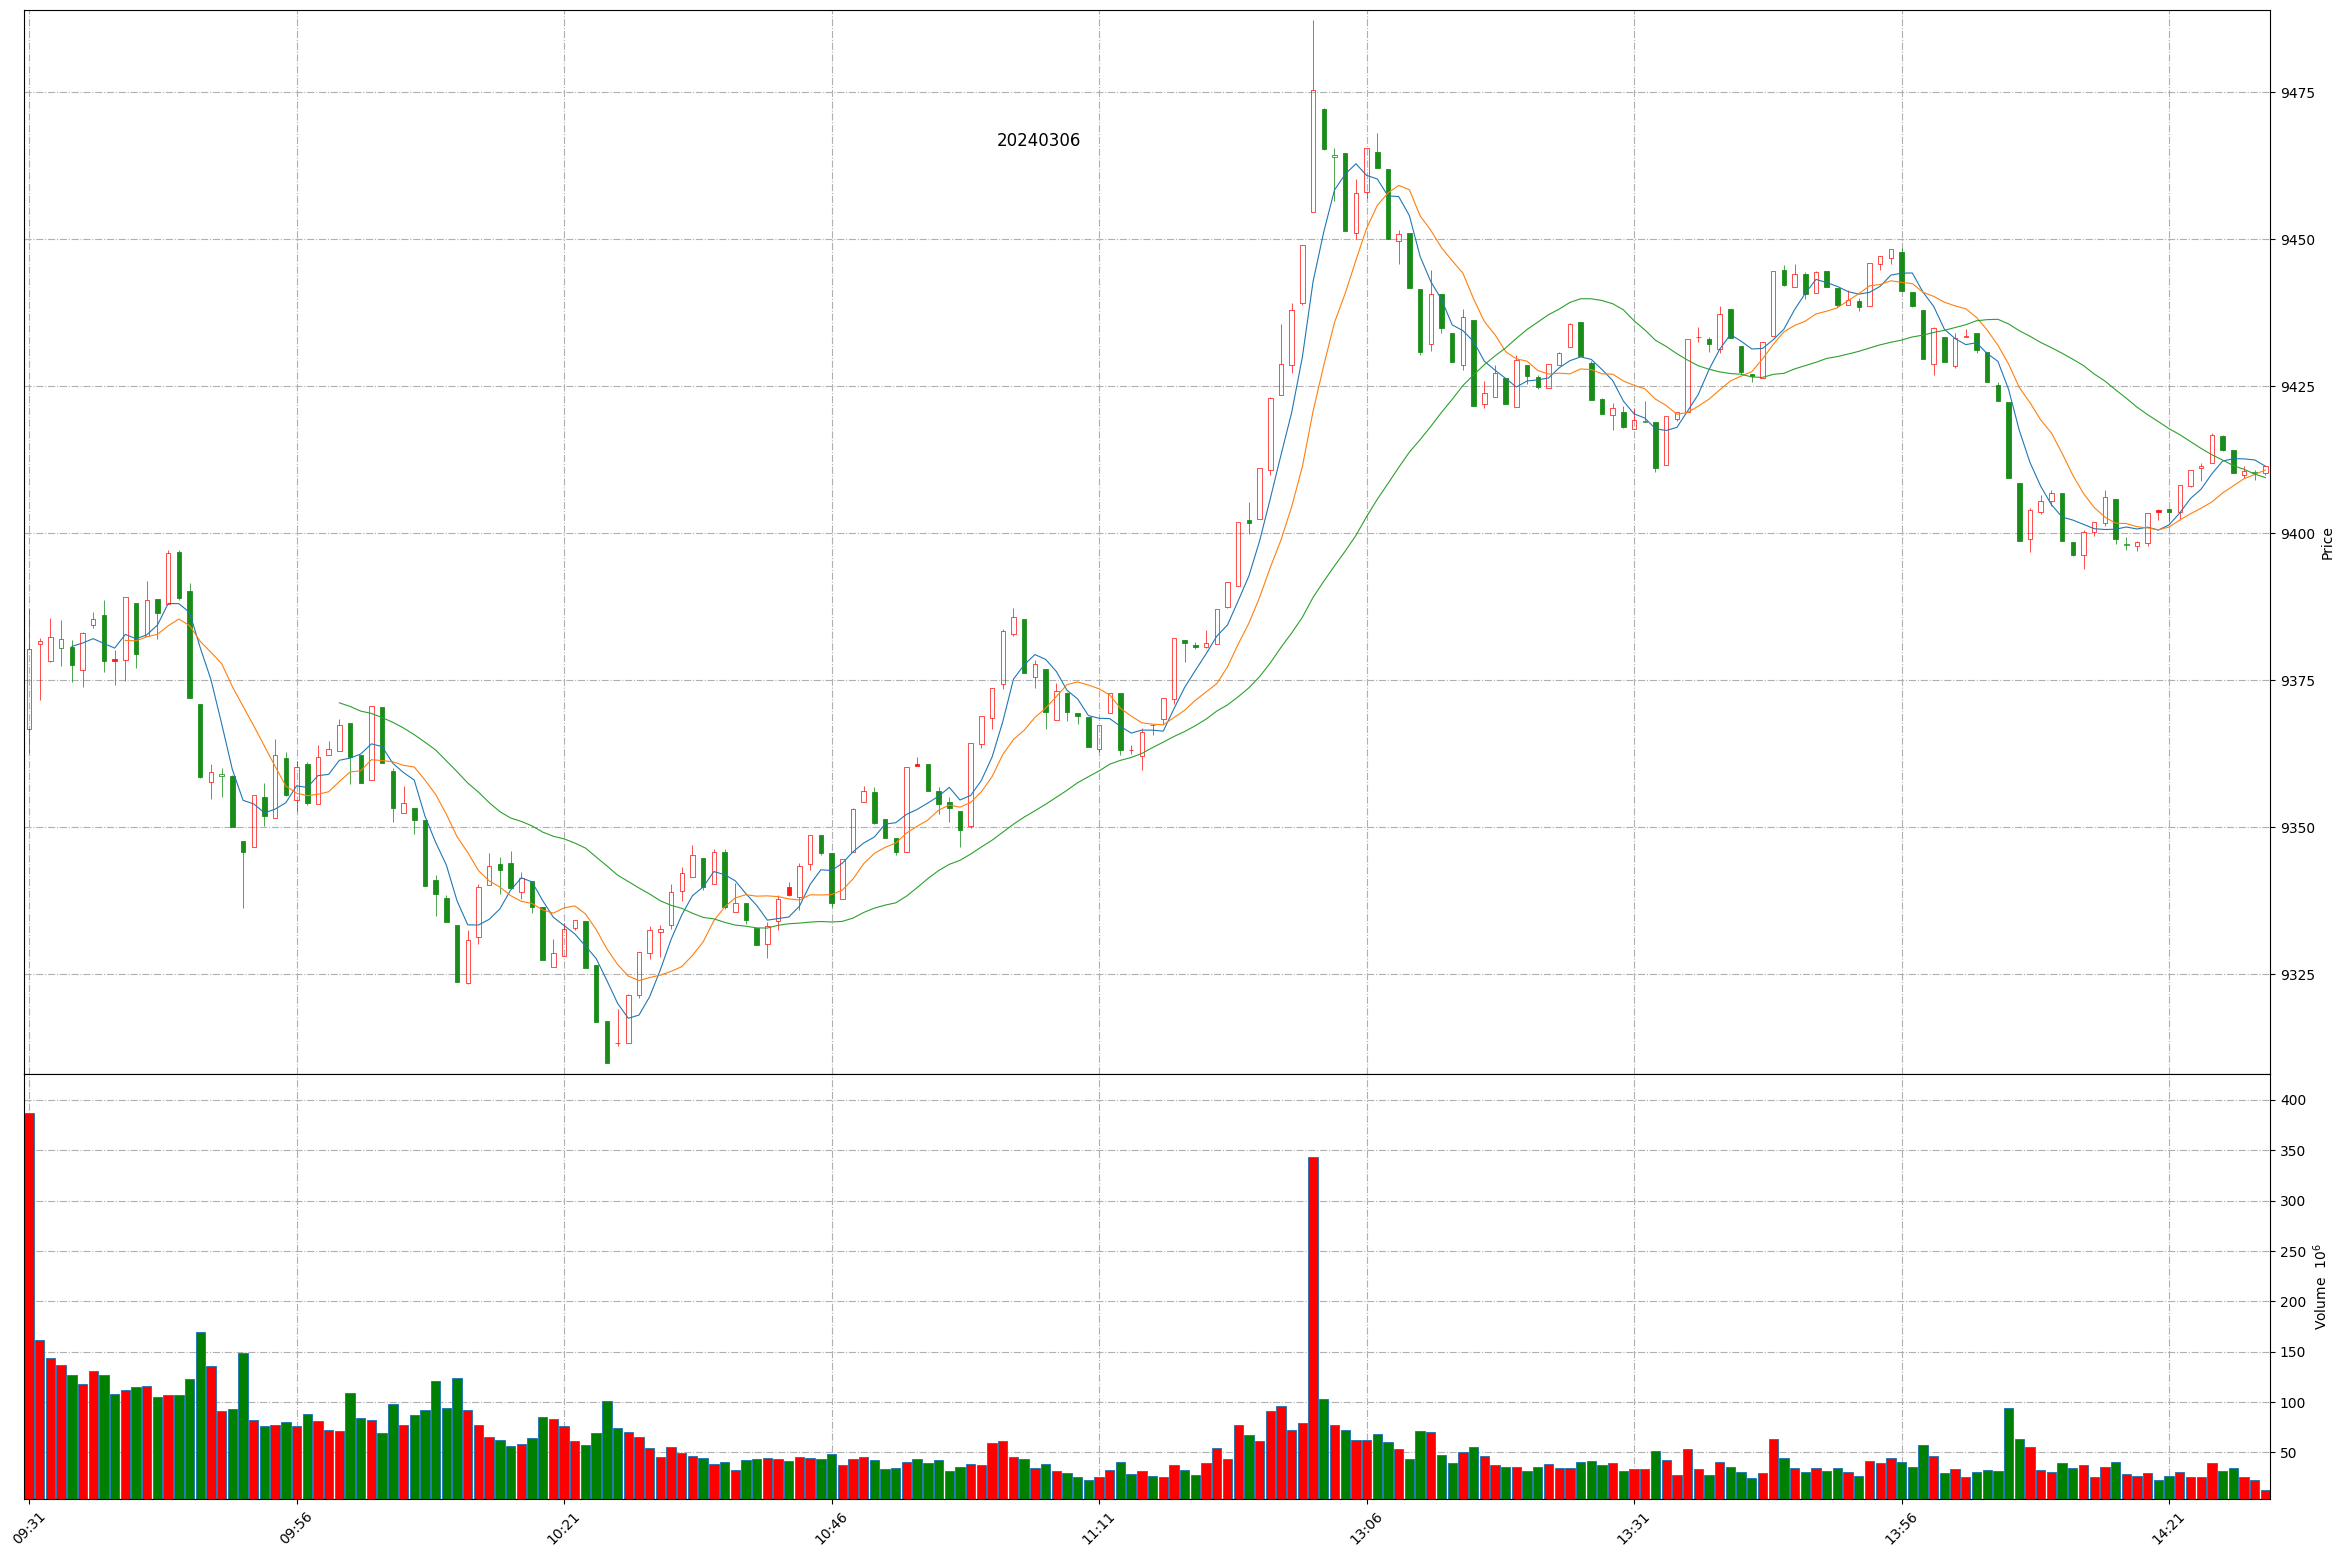
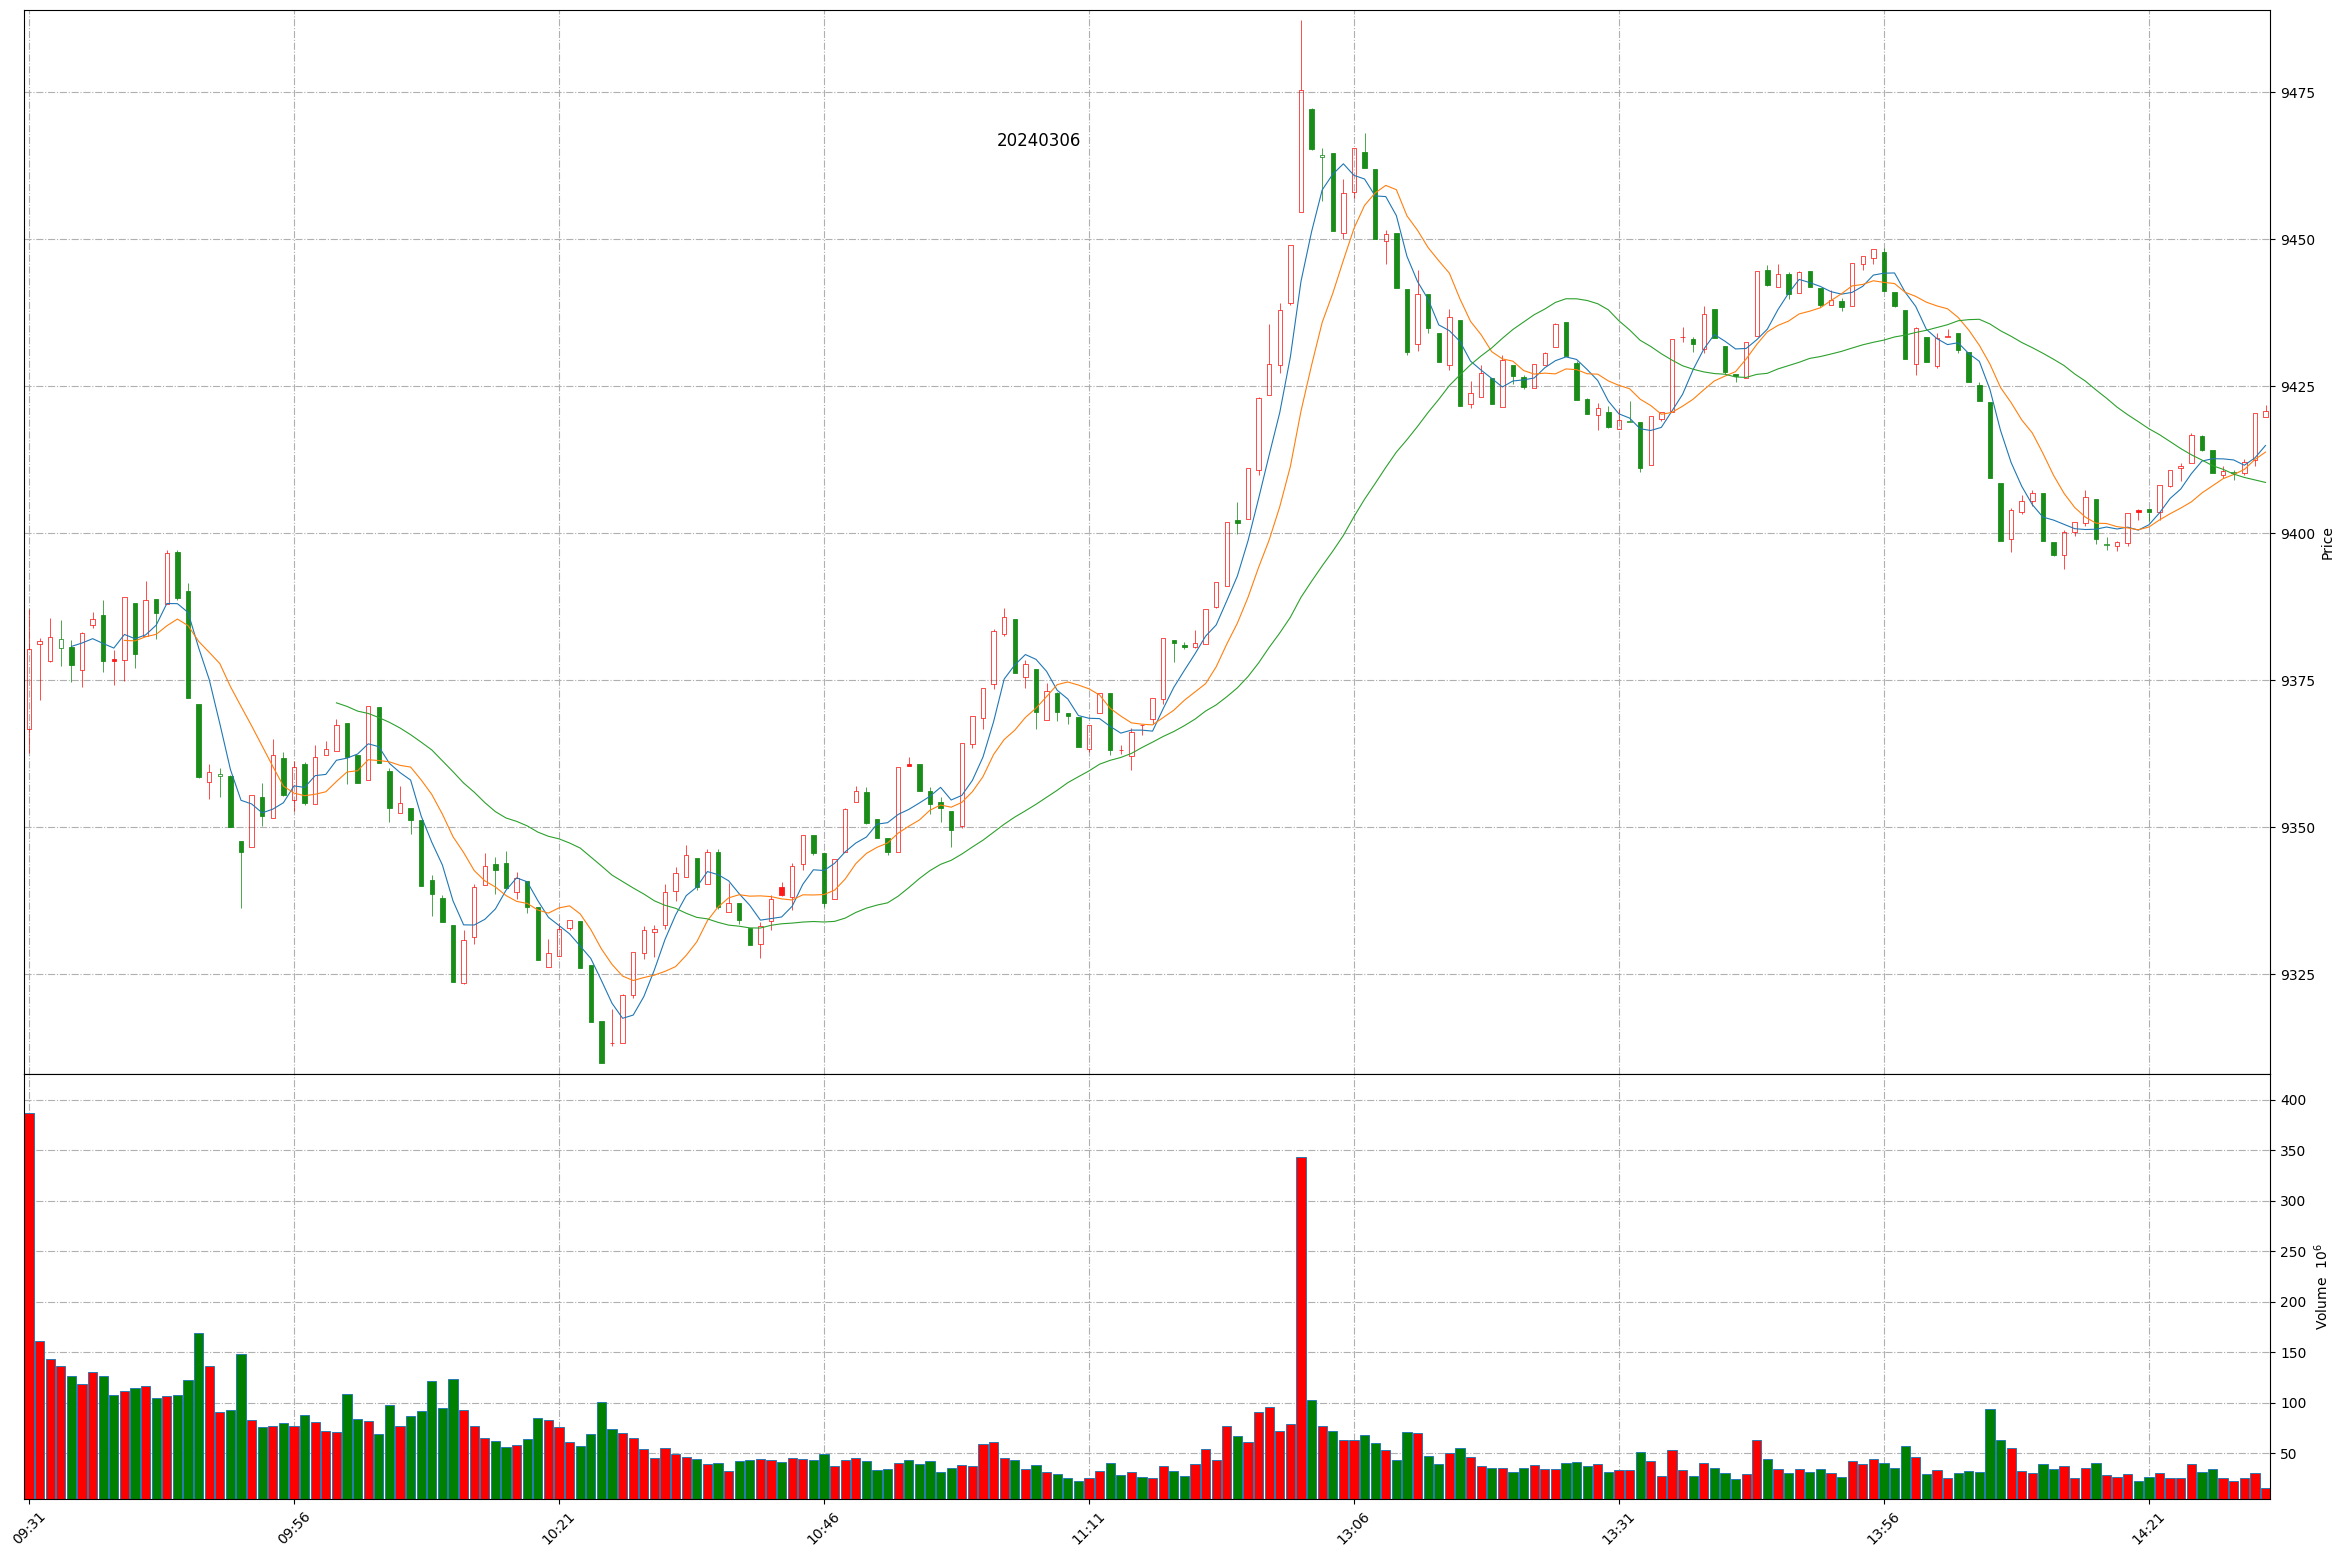
Github action update at 2024-03-06 14:31:43.

diff --git a/README.md b/README.md
@@ -1,11 +1,11 @@
 
 # Daily-A-share-market-quotes 每日 A 股指数（5min 更新）- 20240306
 
-### 上证指数 20240306 14:29
+### 上证指数 20240306 14:31
 ![](./fig/2024/3/20240306-sh000001.png)
 
-### 深证成指 20240306 14:29
+### 深证成指 20240306 14:31
 ![](./fig/2024/3/20240306-sz399001.png)
 
-### 北证50 20240306 14:29
+### 北证50 20240306 14:31
 ![](./fig/2024/3/20240306-bj899050.png)
